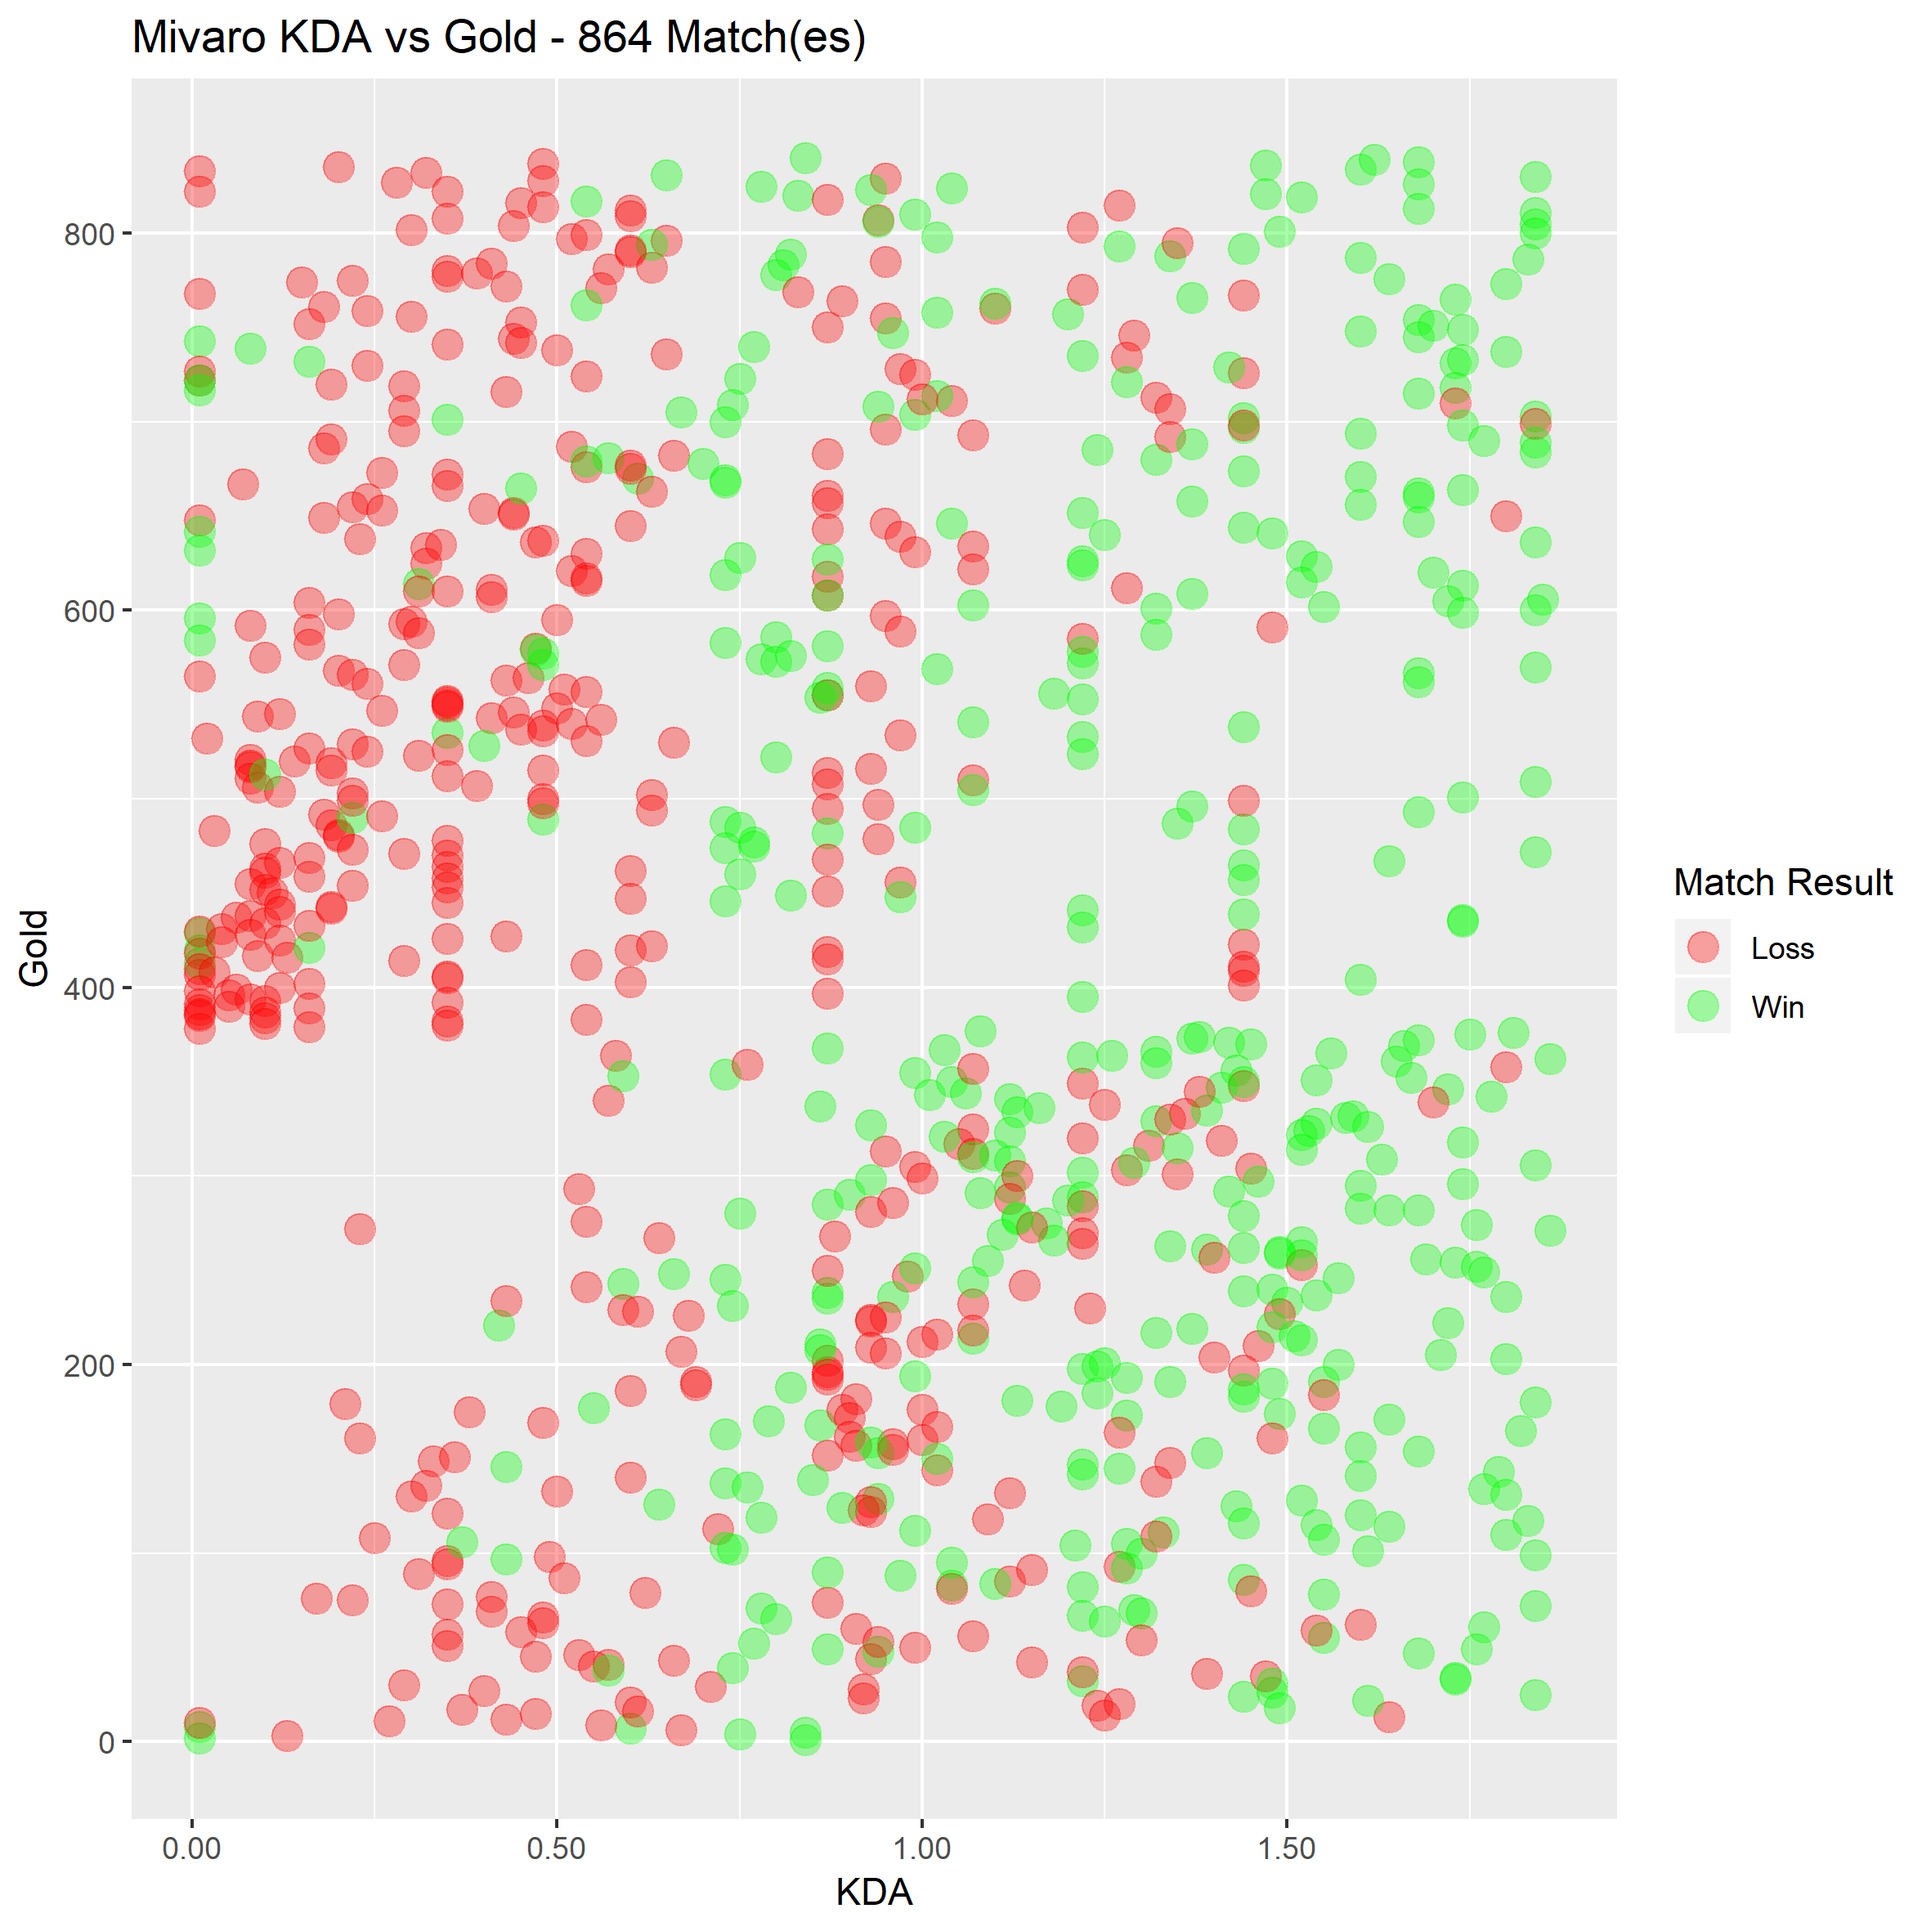
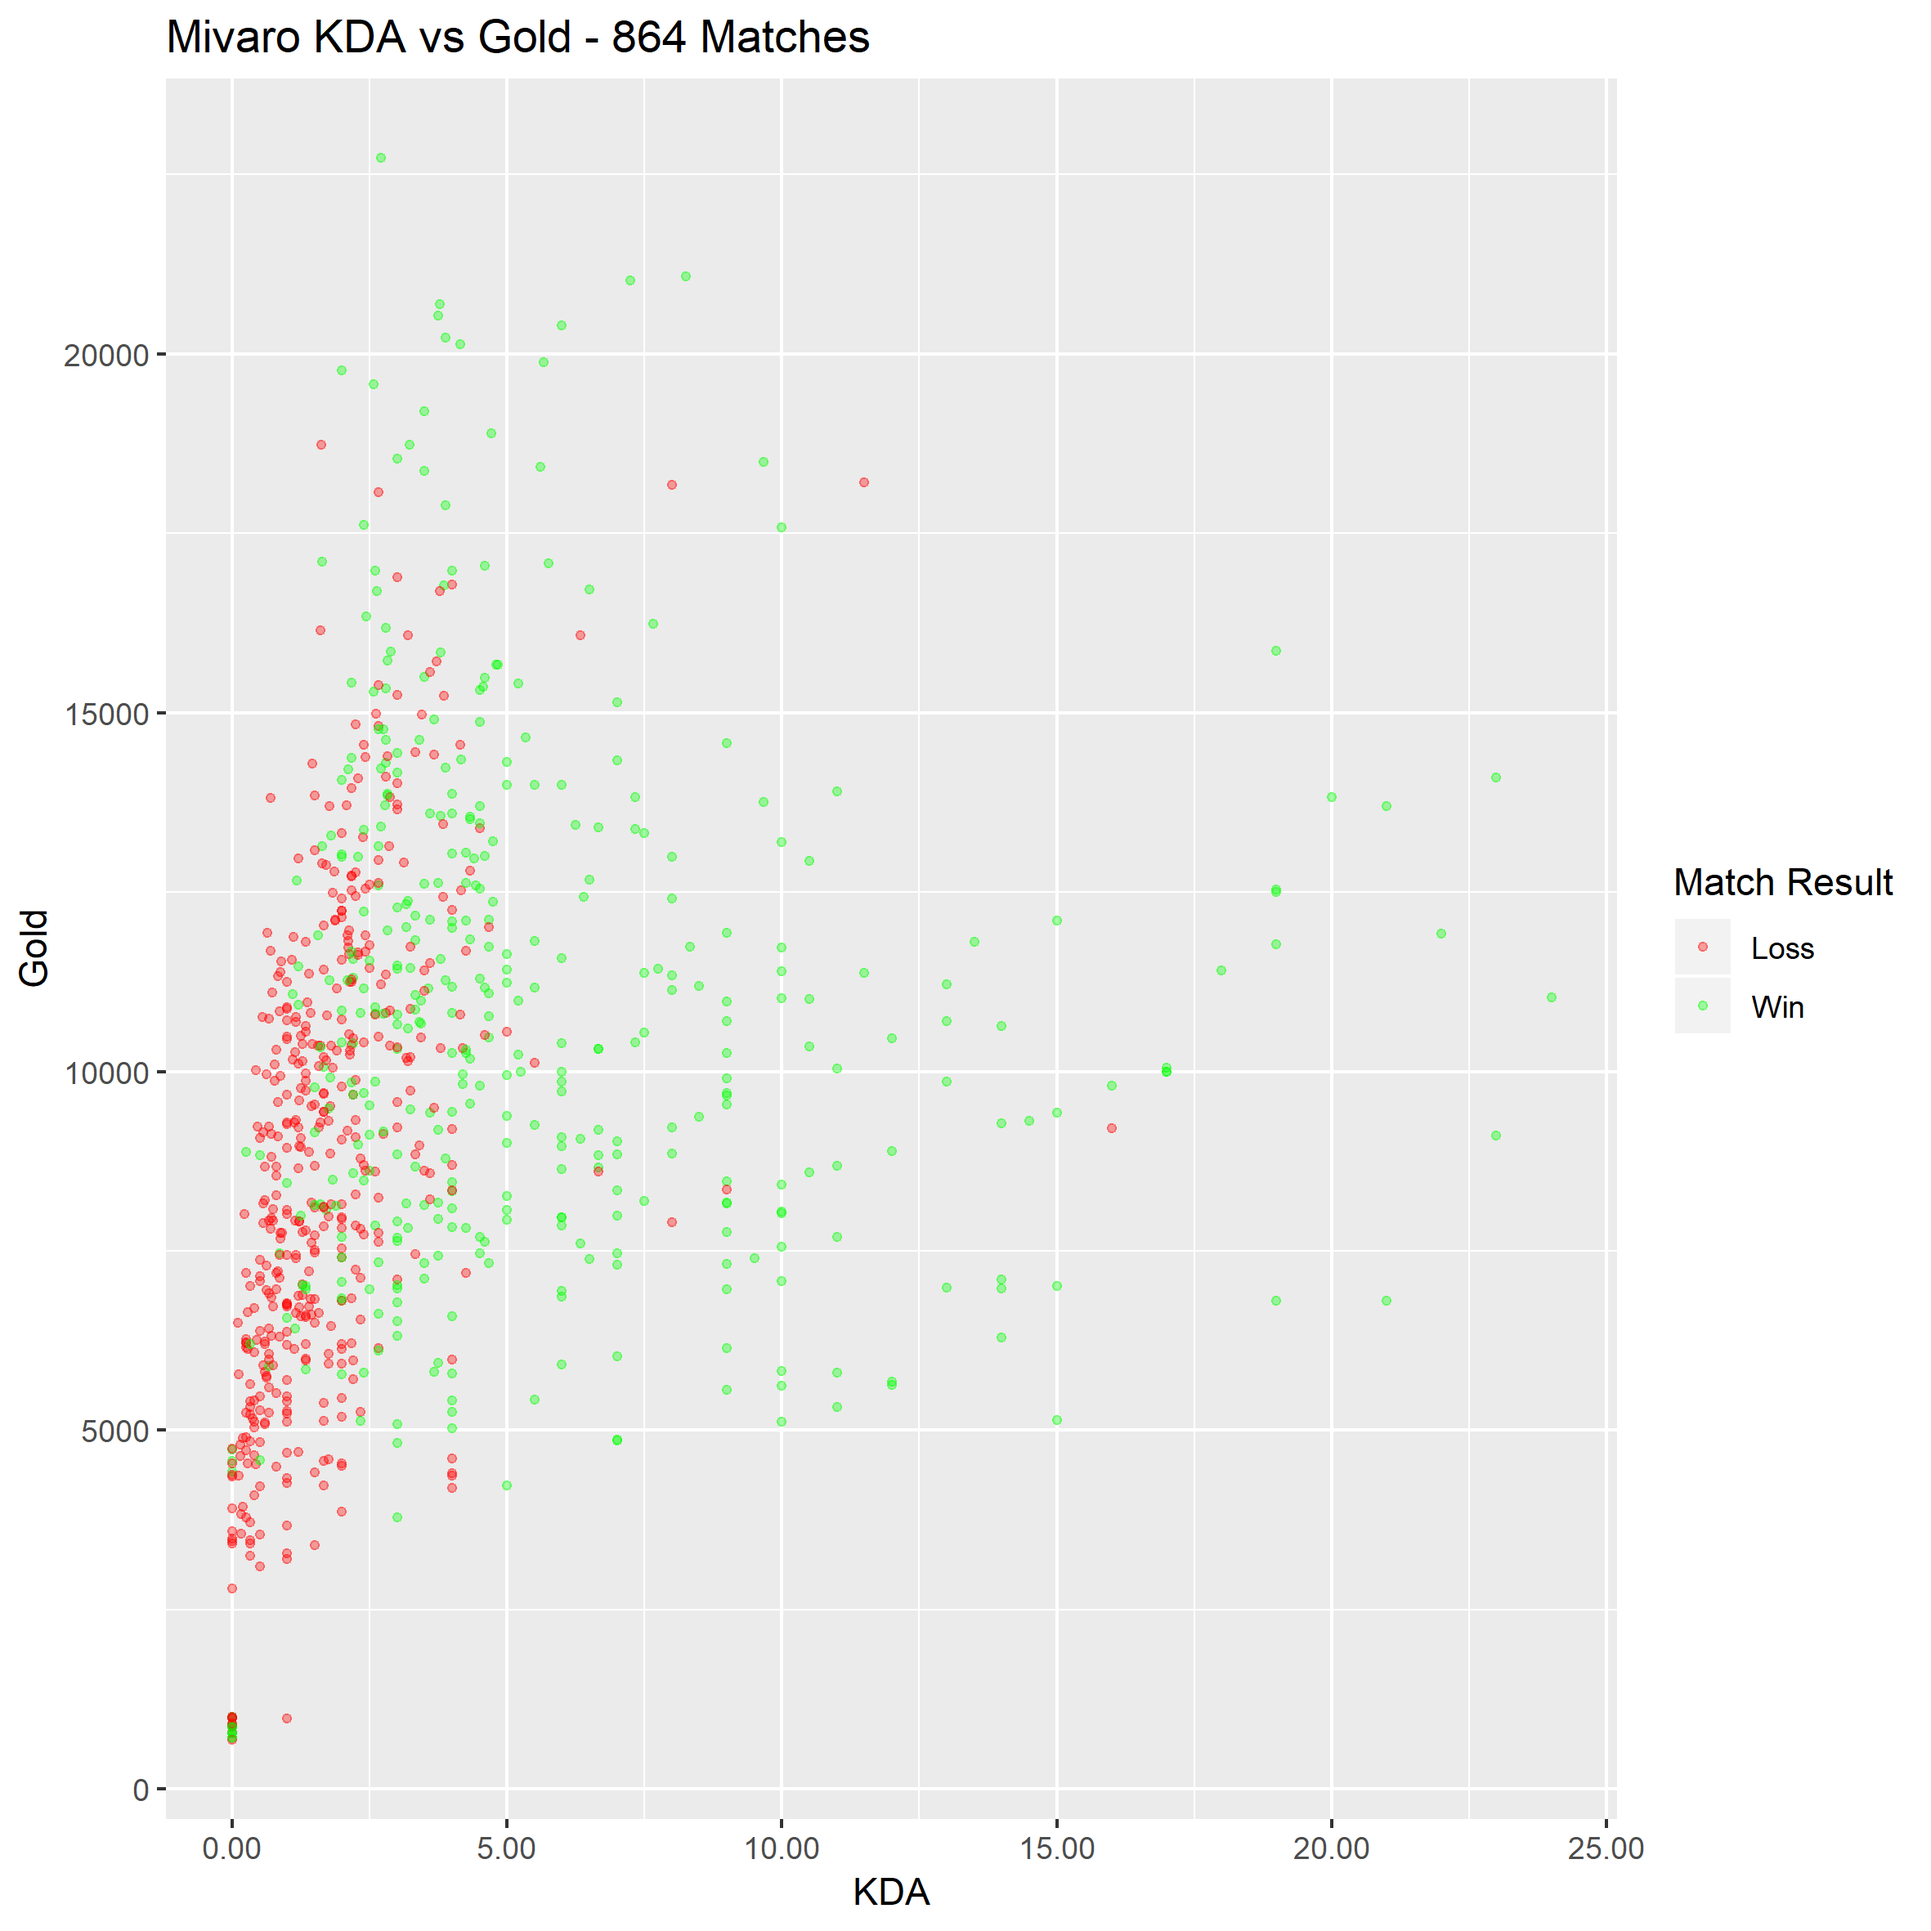
Finished second visualization

diff --git a/README.md b/README.md
@@ -1,13 +1,18 @@
 # LoL-R-Data-Visual
 
 
-Use the Riot Games API to visualize League of Legends user's stats; An introduction to data visualization and R
+Use the Riot Games API to visualize League of Legends user's stats; An introduction to data visualization and R.
+
+I also added an additional constraint to this side project, try to do the bulk of everything in R (wrangling, cleaning, filtering)
 
 
-## Process
-* Create ```config.json``` to define Riot API key and specify summoners to gather data for
-* Run ```wrangler.R``` to gather all data, output to ```./Matches.csv```, and populate ```[database].[dbo].[tablename]```
-* Additional runs of either ```wrangler.R``` or ```append-matches.R``` will append data to ```[database].[dbo].[tablename]```
+## KDA vs Gold Graph (A friend's account)
+[graph_kda_gold]()
+
+
+## Win Rate on Day of Week (A friend's account)
+[graph_winrate_dow]()
+
 
 
 ## Config
@@ -21,7 +26,6 @@ Use the Riot Games API to visualize League of Legends user's stats; An introduct
   "api-key": "RIOT_API",
   "csv-data": "D:/some/where",
   "graphs-output": "D:/graphs",
-  "version": "9.6.1",
   "summoners": [
     {
       "username":"Some Summoner"
@@ -32,6 +36,14 @@ Use the Riot Games API to visualize League of Legends user's stats; An introduct
   ]
 }
 ```
+
+
+## Process
+* Create ```config.json``` to define Riot API key and specify summoners to gather data for
+* Run ```wrangler.R``` to gather all data, output to ```./Matches.csv```, and populate ```[database].[dbo].[tablename]```
+* Additional runs of either ```wrangler.R``` or ```append-matches.R``` will append data to ```[database].[dbo].[tablename]```
+* Generate visualizations with ```visualize.R```
+
 
 ## wrangler.R Output
 ```
@@ -71,3 +83,4 @@ Use the Riot Games API to visualize League of Legends user's stats; An introduct
   * https://developer.riotgames.com/
   * Items https://ddragon.leagueoflegends.com/cdn/9.6.1/data/en_US/item.json
   * Champions https://ddragon.leagueoflegends.com/cdn/9.6.1/data/en_US/champion.json
+
